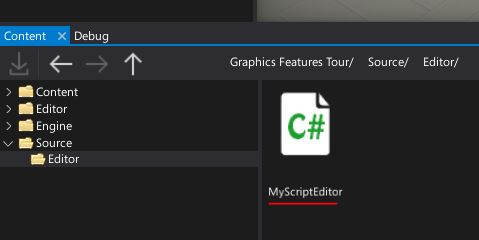
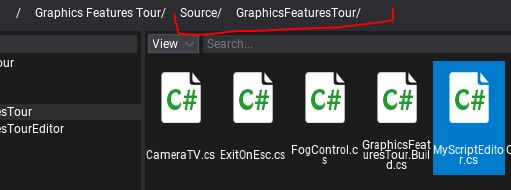
Update editor scripts tutorials

diff --git a/manual/scripting/tutorials/custom-editor.md b/manual/scripting/tutorials/custom-editor.md
@@ -13,33 +13,29 @@ public class MyScript : Script
 
     public override void OnStart()
     {
+        // Do something
     }
 }
 ```
 
-### 2. Create `Editor` folder in `Source` directory
+### 2. Create editor script
 
-Flax generates two projects for your game scripts. The first for the actual gameplay (the main project), and the second one for the editor plugins and extensions. Files located in `Editor` folders (eg. *Source/Player/Ammunition/Editor*) are included in editor-related project while the rest is in the main project.
-
-![Tutorial](media/custom-editor-tutorial-1.jpg)
-
-### 3. Create editor script
-
-Create a new C# script inside the `Source/Editor` directory and use the target class name with *Editor* prefix.
+Create a new C# script inside the `Source/<module_name>` directory and use the target class name with *Editor* postfix. Alternatively, you can use an additional editor-only scripts module as shown in tutorial [here](add-scripts-module.md).
 
 ![Tutorial](media/custom-editor-tutorial-2.jpg)
 
-### 4. Open file
+### 3. Open file
 
 Double-click on created file to open it in code editor.
 
 ![Tutorial](media/custom-editor-tutorial-3.jpg)
 
-### 5. Implement the custom editor
+### 4. Implement the custom editor
 
 Edit created class to inherit from [GenericEditor](https://docs.flaxengine.com/api/FlaxEditor.CustomEditors.Editors.GenericEditor.html). Add [CustomEditor](https://docs.flaxengine.com/api/FlaxEngine.CustomEditorAttribute.html) attribute that will tell Flax to use this type for editing `MyScript` objects. Implement the `Initialize` function which creates the editor layout. In the example below it inserts a label, creates a group with default editor inside and then adds a button after a small space.
 
 ```cs
+#if FLAX_EDITOR
 using FlaxEditor.CustomEditors;
 using FlaxEditor.CustomEditors.Editors;
 using FlaxEngine;
@@ -62,9 +58,12 @@ namespace GraphicsFeaturesTour
         }
     }
 }
+#endif
 ```
 
-### 6. See the results
+If your script is in editor-only module then you can skip `#if FLAX_EDITOR / #endif` pair.
+
+### 5. See the results
 
 After Flax reloads the scripts, select the object with `MyScript` added and see the custom editor as shown in the picture below.
 

diff --git a/manual/scripting/tutorials/custom-plugin.md b/manual/scripting/tutorials/custom-plugin.md
@@ -7,9 +7,9 @@ Editor plugins can extend the Flax Editor or implement a proper tooling for the 
 
 ### 1. Create editor script
 
-Navigate to the `Content` directory and create a new folder called `Editor`. Then enter it and create script file inside. Name it **MyEditorPlugin**. It will be *editor-only* script and it will be added to editor scripts assembly.
+Create a new C# script named **MyEditorPlugin** inside the `Source/<module_name>` directory and use the target class name with *Editor* postfix. Alternatively, you can use an additional editor-only scripts module as shown in tutorial [here](add-scripts-module.md).
 
-![Create Editor Scripts](media/editor-plugin-step-1.png)
+![Tutorial](media/custom-editor-tutorial-2.jpg)
 
 ### 2. Implement plugin logic
 
@@ -19,6 +19,7 @@ Here is a sample code that adds a new button to the editor toolstrip and shows t
 **Remember to clean up created GUI elements on editor plugin deinitialization!**
 
 ```cs
+#if FLAX_EDITOR
 using FlaxEditor;
 using FlaxEditor.GUI;
 using FlaxEngine;
@@ -51,8 +52,10 @@ namespace ExamplePlugin
         }
     }
 }
-
+#endif
 ```
+
+
 
 Flax plugins use two main methods for the lifetime: `Initialize` and `Deinitialize`. However for Editor plugins when `Initialize` is called the Editor may still be uninitialized so it's better to use `InitializeEditor` to add custom GUI to the Editor.
 

diff --git a/manual/scripting/tutorials/custom-window.md b/manual/scripting/tutorials/custom-window.md
@@ -47,7 +47,7 @@ public class MyScriptEditor : GenericEditor
 
 ### 2. Create a new script
 
-Navigate to `Source/Editor` directory and create new `MyWindow` script.
+Navigate to `Source/<module_name>` directory and create new `MyWindow` script. Alternatively, you can use an additional editor-only scripts module as shown in tutorial [here](add-scripts-module.md).
 
 ![Tutorial](media/custom-window-tutorial-1.jpg)
 
